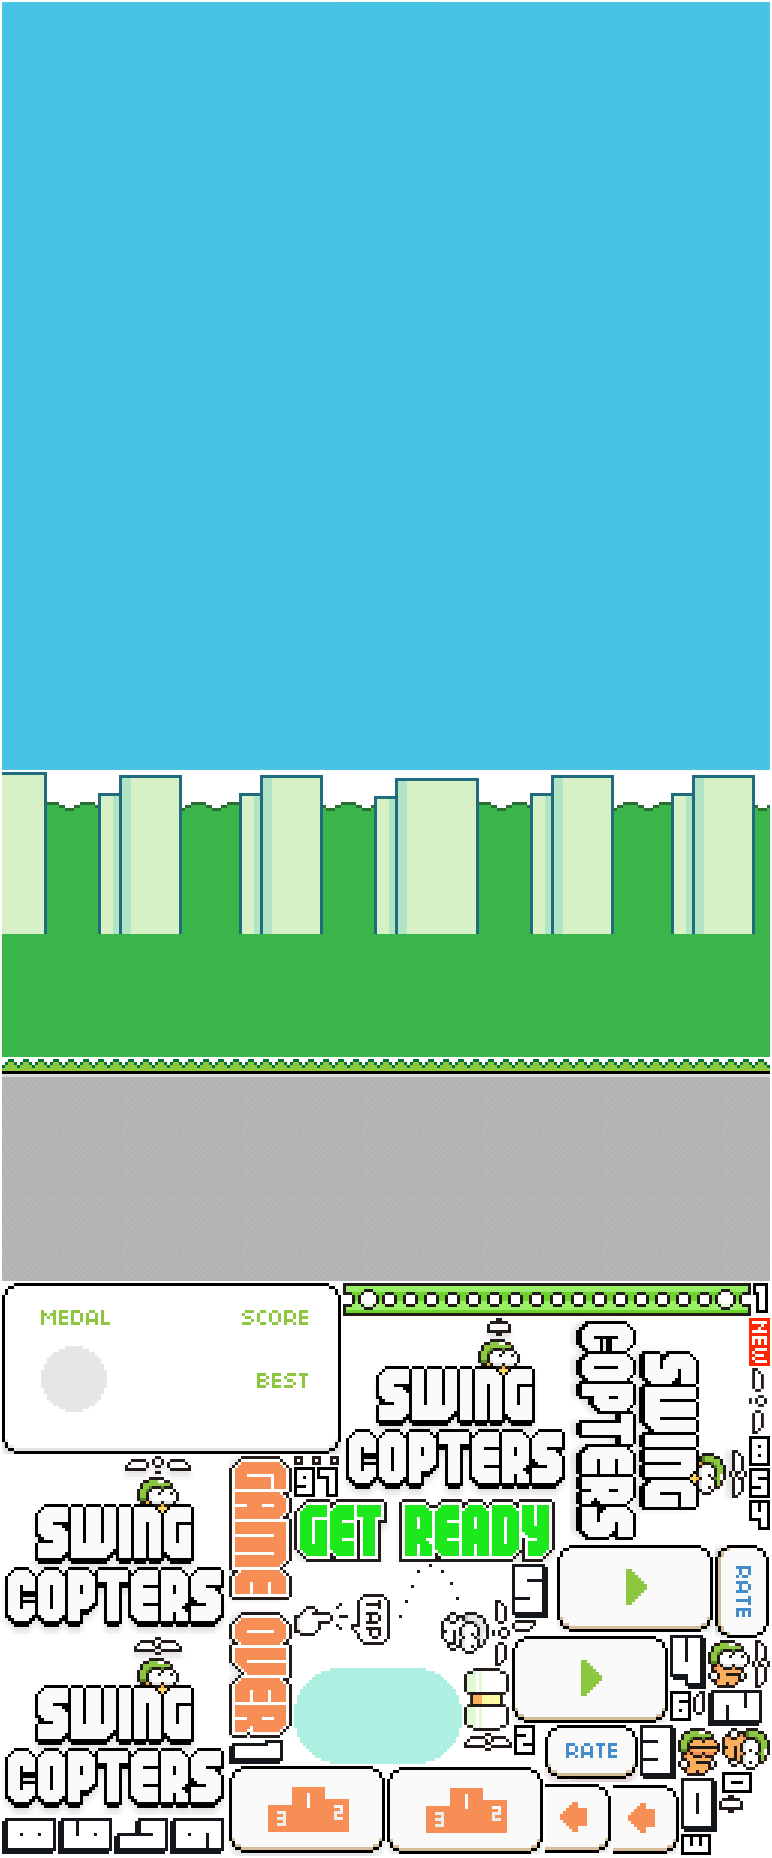
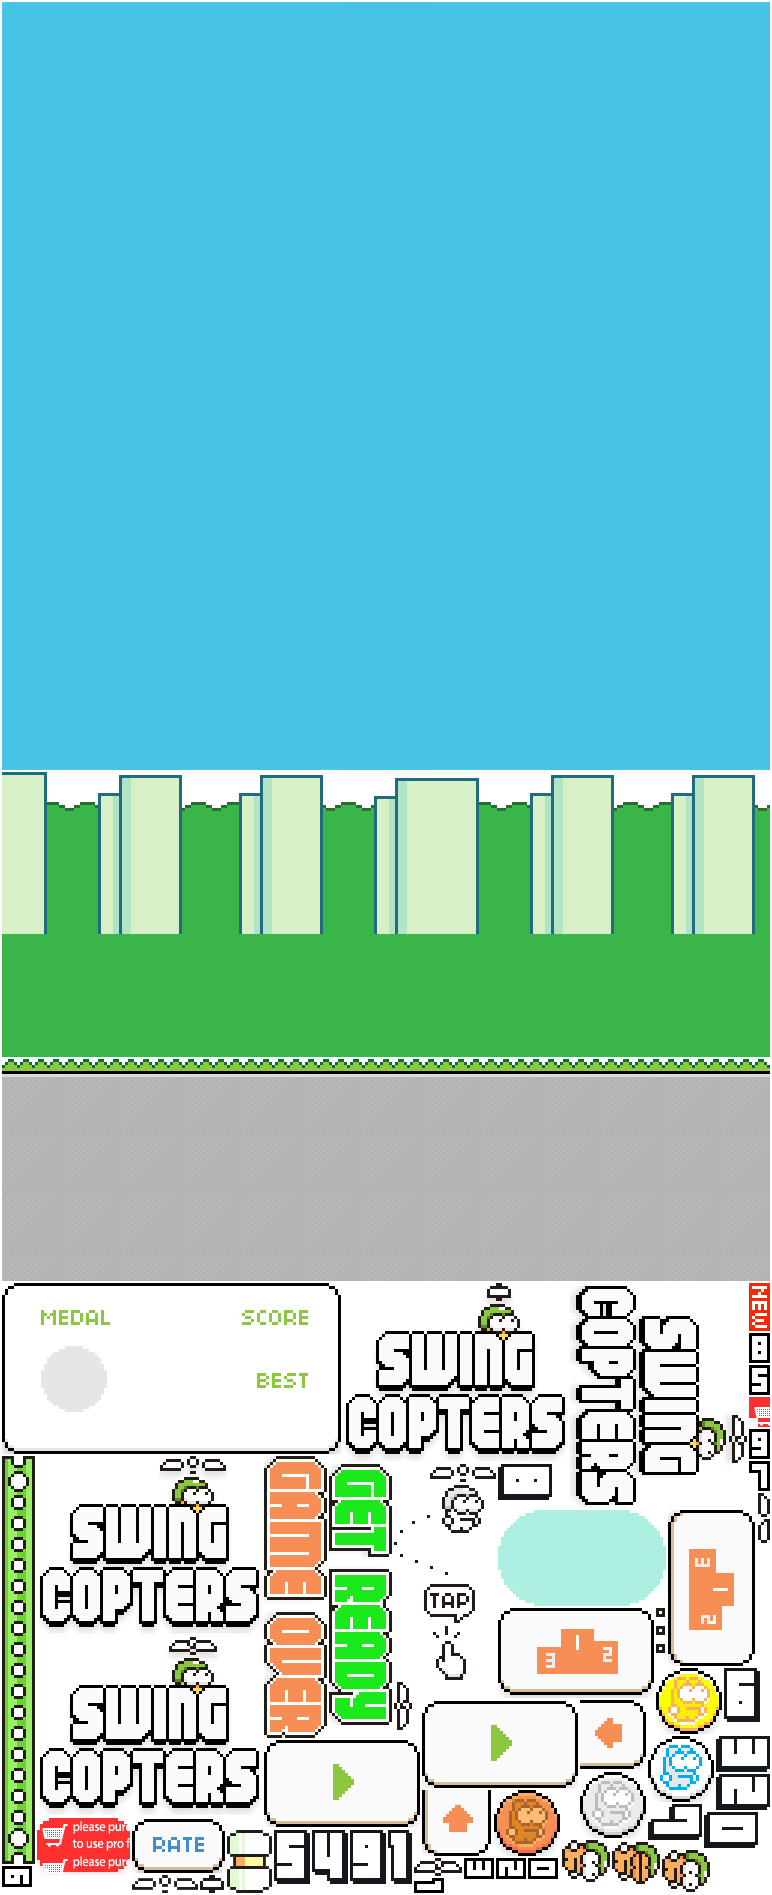
Implemented medal achievements.

diff --git a/js/ScoreBoard.js b/js/ScoreBoard.js
@@ -28,14 +28,21 @@ cb.ScoreBoard = cc.Node.extend({
         this._highScoreSprite.setPosition(cc.p(136, -42));
     },
 
-    animateScore:function(score, callback, callbackTarget) {
+    animateScore:function(score) {
+        // Save the highscore first in case player cancels the animation prematurely
+        var isNewHighScore = score > this._highScoreSprite.getScore();
+        if (isNewHighScore)
+            this._saveNewHighScore(score);
+
         var updateInterval = 0.05;
         function animationUpdate() {
             if (this._scoreSprite.getScore() == score) {
-                if (score > this._highScoreSprite.getScore()) {
+                if (isNewHighScore)
                     this._updateHighScore(score);
-                }
-                callback.apply(callbackTarget);
+
+                var medalType = cb.Config.getMedalTypeForScore(score);
+                if (medalType)
+                    this._animateShowMedal(medalType);
             }
             else {
                 this._scoreSprite.setScore(this._scoreSprite.getScore() + 1);
@@ -46,8 +53,11 @@ cb.ScoreBoard = cc.Node.extend({
         animationUpdate.apply(this);
     },
 
-    _updateHighScore:function(newHighScore) {
+    _saveNewHighScore:function(newHighScore) {
         cb.CookieManager.sharedManager().saveCookie("highscore", newHighScore);
+    },
+
+    _updateHighScore:function(newHighScore) {
         this._highScoreSprite.setScore(newHighScore);
         this._highlightNewHighScore();
     },
@@ -56,5 +66,17 @@ cb.ScoreBoard = cc.Node.extend({
         var highlightNewSprite = cc.Sprite.create(cb.resources.new_high_score);
         this.addChild(highlightNewSprite);
         highlightNewSprite.setPosition(cc.p(57, -12))
+    },
+
+    _animateShowMedal:function(medalType) {
+        var medal = new cb.Medal(medalType);
+        this.addChild(medal);
+        medal.setPosition(cc.p(-98, -12));
+
+        var animationActions = [];
+        animationActions.push(cc.ScaleTo.create(0.5, 1));
+
+        medal.setScale(1.2);
+        medal.runAction(cc.Sequence.create(animationActions));
     }
 });

diff --git a/js/PlayStateGameOver.js b/js/PlayStateGameOver.js
@@ -32,14 +32,15 @@ cb.PlayScene.State.GameOver = cb.PlayScene.State.extend({
         var animationActions = [];
         animationActions.push(cc.MoveTo.create(0.5, cc.p(this._playScene.getContentSize().width/2,
             this._playScene.getContentSize().height/2)));
-        animationActions.push(cc.CallFunc.create(this._animateCalculateScore, this));
+        animationActions.push(cc.CallFunc.create(this._showScoreBoardAnimationDidEnd, this));
 
         this._scoreBoard.setPosition(cc.p(this._playScene.getContentSize().width/2, 300));
         this._scoreBoard.runAction(cc.Sequence.create(animationActions));
     },
 
-    _animateCalculateScore:function() {
-        this._scoreBoard.animateScore(this._playScene._scoreSprite.getScore(), this._showButtons, this);
+    _showScoreBoardAnimationDidEnd:function() {
+        this._showButtons();
+        this._scoreBoard.animateScore(this._playScene._scoreSprite.getScore());
     },
 
     _showButtons:function() {

diff --git a/js/Config.js b/js/Config.js
@@ -1,5 +1,20 @@
+cb.MedalType = {
+    Bronze : { name : "bronze", score : 1 },
+    Silver : { name : "silver", score : 2 },
+    Gold : { name : "gold", score : 3 },
+    Platinum : { name : "platinum", score : 4 }
+};
+
 cb.Config = {
     GRAVITY : -400,
     COPTER_Y_VELOCITY : 200,
     COPTER_X_ACCELERATION : 20
+};
+
+cb.Config.getMedalTypeForScore = function(score) {
+    var medalType = null;
+    for (var prop in cb.MedalType)
+        if (score >= cb.MedalType[prop].score)
+            medalType = cb.MedalType[prop];
+    return medalType;
 };

diff --git a/index.html b/index.html
@@ -13,6 +13,7 @@
     <script type="text/javascript" src="js/Hammer.js"></script>
     <script type="text/javascript" src="js/Obstacle.js"></script>
     <script type="text/javascript" src="js/ScoreSprite.js"></script>
+    <script type="text/javascript" src="js/Medal.js"></script>
     <script type="text/javascript" src="js/ScoreBoard.js"></script>
     <script type="text/javascript" src="js/Animation.js"></script>
     <script type="text/javascript" src="js/GameScene.js"></script>

diff --git a/js/Medal.js b/js/Medal.js
@@ -1,0 +1,11 @@
+cb.Medal = cc.Node.extend({
+    ctor:function(type) {
+        this._super();
+        this._createMedalSprite(type);
+    },
+
+    _createMedalSprite:function(type) {
+        var medalSprite = cc.Sprite.create(cb.resources.medal_prefix + type.name);
+        this.addChild(medalSprite);
+    }
+});

diff --git a/main.js b/main.js
@@ -39,6 +39,7 @@ cb.resources.score_board_bg = "score_board_bg";
 cb.resources.back_button = "back_button";
 cb.resources.back_button_selected = "back_button_selected";
 cb.resources.new_high_score = "new_high_score";
+cb.resources.medal_prefix = "medal_";
 
 (function() {
     for (var name in cb.resources)
